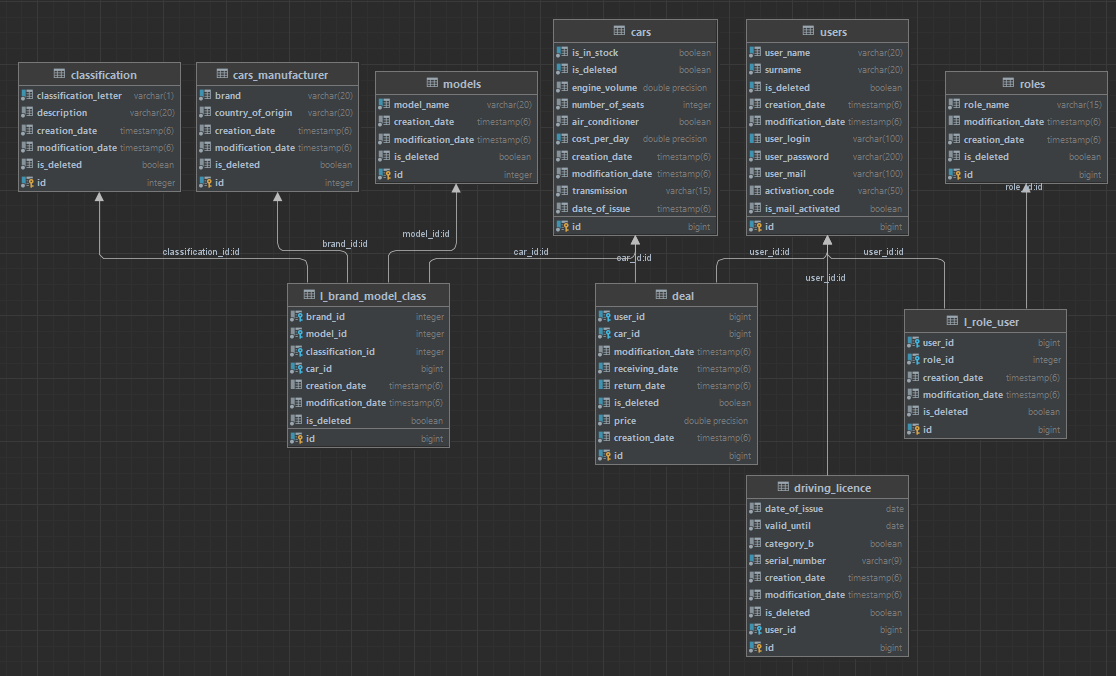
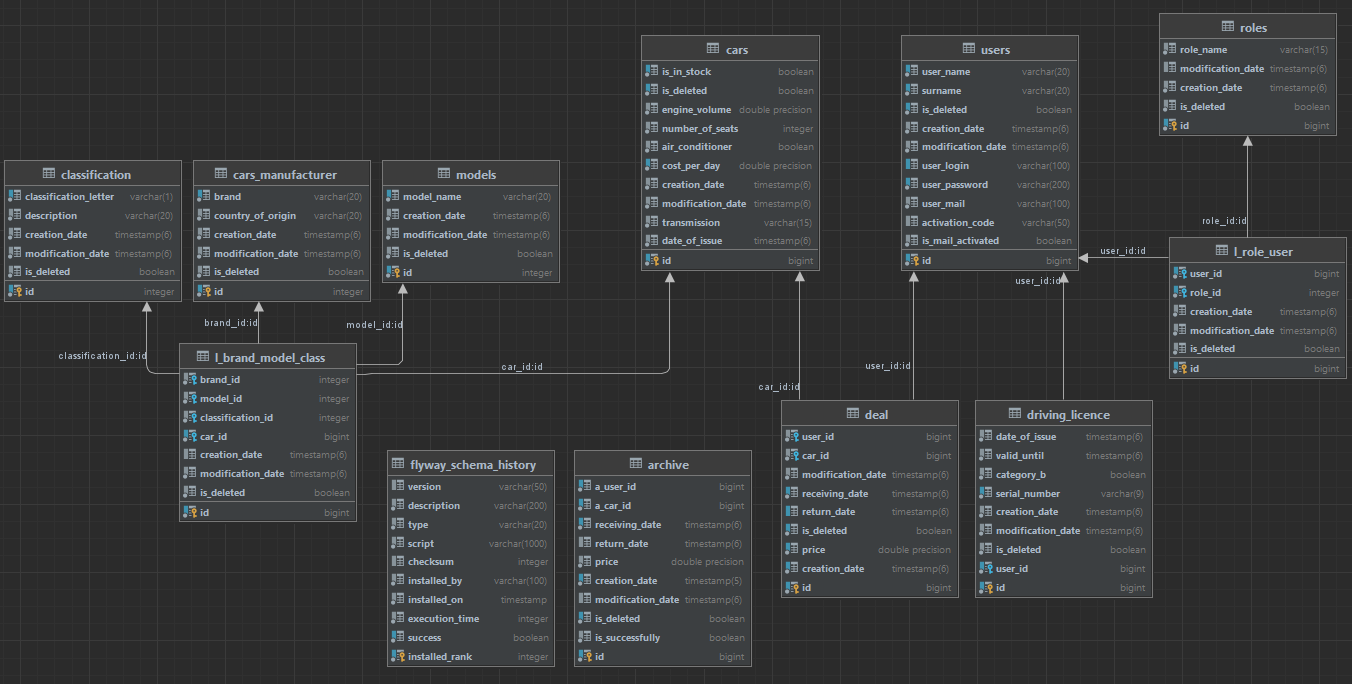
Refactoring(README.md, Entities descriptions)

Changed region(s): [[0.0, 0.0311, 1.0, 0.9941], [0.1828, 0.4349, 0.2133, 0.466]]

diff --git a/api/src/main/java/by/logonuk/controller/LibraryController.java b/api/src/main/java/by/logonuk/controller/LibraryController.java
@@ -1,8 +1,13 @@
 package by.logonuk.controller;
 
 import by.logonuk.domain.Library;
+import by.logonuk.domain.Model;
+import by.logonuk.repository.CarManufactureRepository;
+import by.logonuk.repository.ClassificationRepository;
 import by.logonuk.repository.LibraryRepository;
+import by.logonuk.repository.ModelRepository;
 import io.swagger.v3.oas.annotations.Operation;
+import io.swagger.v3.oas.annotations.Parameter;
 import io.swagger.v3.oas.annotations.media.ArraySchema;
 import io.swagger.v3.oas.annotations.media.Content;
 import io.swagger.v3.oas.annotations.media.Schema;
@@ -27,6 +32,12 @@ public class LibraryController {
 
     private final LibraryRepository repository;
 
+    private final ModelRepository modelRepository;
+
+    private final ClassificationRepository classificationRepository;
+
+    private final CarManufactureRepository carManufactureRepository;
+
     private static final String RESULT = "result";
 
     @GetMapping
@@ -42,5 +53,50 @@ public class LibraryController {
             })
     public ResponseEntity<Object> findAllFields(@ParameterObject Pageable pageable) {
         return new ResponseEntity<>(Collections.singletonMap(RESULT, repository.findAll(pageable)), HttpStatus.OK);
+    }
+
+    @GetMapping("/models")
+    @Operation(summary = "Get all models",
+            responses = {
+                    @ApiResponse(
+                            responseCode = "200",
+                            description = "Find models",
+                            content =
+                            @Content(
+                                    mediaType = "application/json",
+                                    array = @ArraySchema(schema = @Schema(implementation = Model.class))))
+            })
+    public ResponseEntity<Object> findAllModels(@ParameterObject Pageable pageable) {
+        return new ResponseEntity<>(Collections.singletonMap(RESULT, modelRepository.findAll(pageable)), HttpStatus.OK);
+    }
+
+    @GetMapping("/classifications")
+    @Operation(summary = "Get all classifications",
+            responses = {
+                    @ApiResponse(
+                            responseCode = "200",
+                            description = "Find classifications",
+                            content =
+                            @Content(
+                                    mediaType = "application/json",
+                                    array = @ArraySchema(schema = @Schema(implementation = Model.class))))
+            })
+    public ResponseEntity<Object> findAllClassifications(@ParameterObject Pageable pageable) {
+        return new ResponseEntity<>(Collections.singletonMap(RESULT, classificationRepository.findAll(pageable)), HttpStatus.OK);
+    }
+
+    @GetMapping("/manufacturer")
+    @Operation(summary = "Get all car manufacturer",
+            responses = {
+                    @ApiResponse(
+                            responseCode = "200",
+                            description = "Find car manufacturer",
+                            content =
+                            @Content(
+                                    mediaType = "application/json",
+                                    array = @ArraySchema(schema = @Schema(implementation = Model.class))))
+            })
+    public ResponseEntity<Object> findAllManufacturer(@ParameterObject Pageable pageable) {
+        return new ResponseEntity<>(Collections.singletonMap(RESULT, carManufactureRepository.findAll(pageable)), HttpStatus.OK);
     }
 }

diff --git a/api/src/main/java/by/logonuk/controller/requests/user/UserCreateRequest.java b/api/src/main/java/by/logonuk/controller/requests/user/UserCreateRequest.java
@@ -13,18 +13,18 @@ public class UserCreateRequest {
 
     @NotNull(message = "User name must not be null")
     @Size(min = 2, max = 20, message = "User name size must be between 2 and 20")
-    @Pattern(regexp = "^[A-Z][a-z]*$", message = "User name must start with a capital letter and contain only letters")
+    @Pattern(regexp = "^[A-Za-z]*$", message = "User name must start with a capital letter and contain only letters")
     @Schema(description = "User name", required = true, type = "string")
     private String userName;
 
     @NotNull(message = "User surname must not be null")
     @Size(min = 2, max = 20, message = "Surname size must be between 2 and 20")
-    @Pattern(regexp = "^[A-Z][a-z]*$", message = "Surname must start with a capital letter and contain only letters")
+    @Pattern(regexp = "^[A-Za-z]*$", message = "Surname must start with a capital letter and contain only letters")
     @Schema(description = "User surname", required = true, type = "string")
     private String surname;
 
     @NotNull(message = "User login must not be null")
-    @Size(min = 2, max = 100, message = "Login size must be between 2 and 100")
+    @Size(min = 4, max = 100, message = "Login size must be between 2 and 100")
     @Schema(description = "User login", required = true, type = "string")
     private String login;
 

diff --git a/api/src/main/java/by/logonuk/controller/UserController.java b/api/src/main/java/by/logonuk/controller/UserController.java
@@ -4,6 +4,7 @@ import by.logonuk.controller.requests.user.UserCreateRequest;
 import by.logonuk.controller.requests.user.UserUpdateRequest;
 import by.logonuk.controller.responses.ResponseMapper;
 import by.logonuk.controller.responses.user.UserResponse;
+import by.logonuk.domain.Deal;
 import by.logonuk.domain.User;
 import by.logonuk.exception.NoSuchEntityException;
 import by.logonuk.repository.UserRepository;
@@ -199,7 +200,12 @@ public class UserController {
         Optional<User> searchUser = repository.findByCredentialsLoginAndTechnicalInfoIsDeleted(login, false);
         User user = searchUser.orElseThrow(() -> new NoSuchEntityException(USER_NOT_FOUND.formatted("id", login)));
 
+        Deal deal = user.getDeal();
+        if(deal!=null){
+            throw new NoSuchEntityException("User has an open case, so deletion is not possible");
+        }
         user.getTechnicalInfo().setIsDeleted(true);
+
 
         repository.save(user);
 

diff --git a/api/src/main/java/by/logonuk/controller/CarController.java b/api/src/main/java/by/logonuk/controller/CarController.java
@@ -109,10 +109,7 @@ public class CarController {
     }
 
     @GetMapping("/function")
-    @Operation(summary = "Get number of cars in stock", parameters = {
-            @Parameter(in = ParameterIn.HEADER, name = "X-Auth-Token", description = "Token",
-                    schema = @Schema(defaultValue = "token", type = "string"))
-    })
+    @Operation(summary = "Get number of cars in stock")
     public ResponseEntity<Object> getNumberOfCarsInStock() {
         return new ResponseEntity<>(Collections.singletonMap(RESULT, repository.carsInStock()), HttpStatus.OK);
     }

diff --git a/common/src/main/java/by/logonuk/domain/Library.java b/common/src/main/java/by/logonuk/domain/Library.java
@@ -27,6 +27,14 @@ import javax.persistence.Table;
 @Table(name = "l_brand_model_class")
 @Cache(usage = CacheConcurrencyStrategy.READ_WRITE)
 @Cacheable
+/*
+    The library is an entity
+    for finding a suitable car for the user
+    according to the appropriate parameters:
+    1) CarManufacturer
+    2) Classification
+    3) Model
+ */
 public class Library {
 
     @Id
@@ -67,3 +75,5 @@ public class Library {
     @JsonIgnoreProperties("library")
     private Car car;
 }
+
+

diff --git a/api/src/main/java/by/logonuk/security/WebSecurityConfiguration.java b/api/src/main/java/by/logonuk/security/WebSecurityConfiguration.java
@@ -67,6 +67,7 @@ public class WebSecurityConfiguration extends WebSecurityConfigurerAdapter {
                 .antMatchers("/actuator/**").permitAll()
                 .antMatchers(HttpMethod.OPTIONS, "/**").permitAll()
                 .antMatchers("/auth").permitAll()
+                .antMatchers("/library/**").permitAll()
 
                 .antMatchers(HttpMethod.POST, "/users").permitAll()
                 .antMatchers(HttpMethod.PUT, "/users").permitAll()

diff --git a/common/src/main/java/by/logonuk/domain/Classification.java b/common/src/main/java/by/logonuk/domain/Classification.java
@@ -27,6 +27,10 @@ import javax.persistence.Table;
 @Entity
 @Table(name = "classification")
 @Cacheable(cacheNames = "classification", cacheManager = "cacheManagerClassification")
+/*
+    Entity for forming a car in BD,
+    as well as searching for a suitable car on UI
+ */
 public class Classification {
 
     @Id

diff --git a/common/src/main/java/by/logonuk/domain/CarManufacture.java b/common/src/main/java/by/logonuk/domain/CarManufacture.java
@@ -27,6 +27,10 @@ import javax.persistence.Table;
 @Table(name = "cars_manufacturer")
 @Cache(usage = CacheConcurrencyStrategy.READ_WRITE)
 @Cacheable
+/*
+    Entity for forming a car in BD,
+    as well as searching for a suitable car on UI
+ */
 public class CarManufacture {
 
     @Id

diff --git a/common/src/main/java/by/logonuk/domain/Model.java b/common/src/main/java/by/logonuk/domain/Model.java
@@ -29,6 +29,10 @@ import javax.persistence.Table;
 @NoArgsConstructor
 @Cache(usage = CacheConcurrencyStrategy.READ_WRITE)
 @Cacheable
+/*
+    Entity for forming a car in BD,
+    as well as searching for a suitable car on UI
+ */
 public class Model {
 
     @Id

diff --git a/common/src/main/java/by/logonuk/domain/DrivingLicence.java b/common/src/main/java/by/logonuk/domain/DrivingLicence.java
@@ -26,6 +26,7 @@ import java.sql.Timestamp;
 @Table(name = "driving_licence")
 @Cache(usage = CacheConcurrencyStrategy.READ_WRITE)
 @Cacheable
+//Entity for the formation of a driver's license
 public class DrivingLicence {
 
     @Id

diff --git a/common/src/main/java/by/logonuk/domain/Archive.java b/common/src/main/java/by/logonuk/domain/Archive.java
@@ -18,6 +18,10 @@ import java.sql.Timestamp;
 @Data
 @Entity
 @Table(name = "archive")
+/*
+    Entity to archive all completed orders
+    regardless of success - isSuccessfully(true/false)
+ */
 public class Archive {
 
     @Id

diff --git a/common/src/main/java/by/logonuk/domain/Deal.java b/common/src/main/java/by/logonuk/domain/Deal.java
@@ -29,6 +29,7 @@ import java.sql.Timestamp;
 @Table(name = "deal")
 @Cache(usage = CacheConcurrencyStrategy.READ_WRITE)
 @Cacheable
+//Entity for the formation of a user orders
 public class Deal {
 
     @Id
